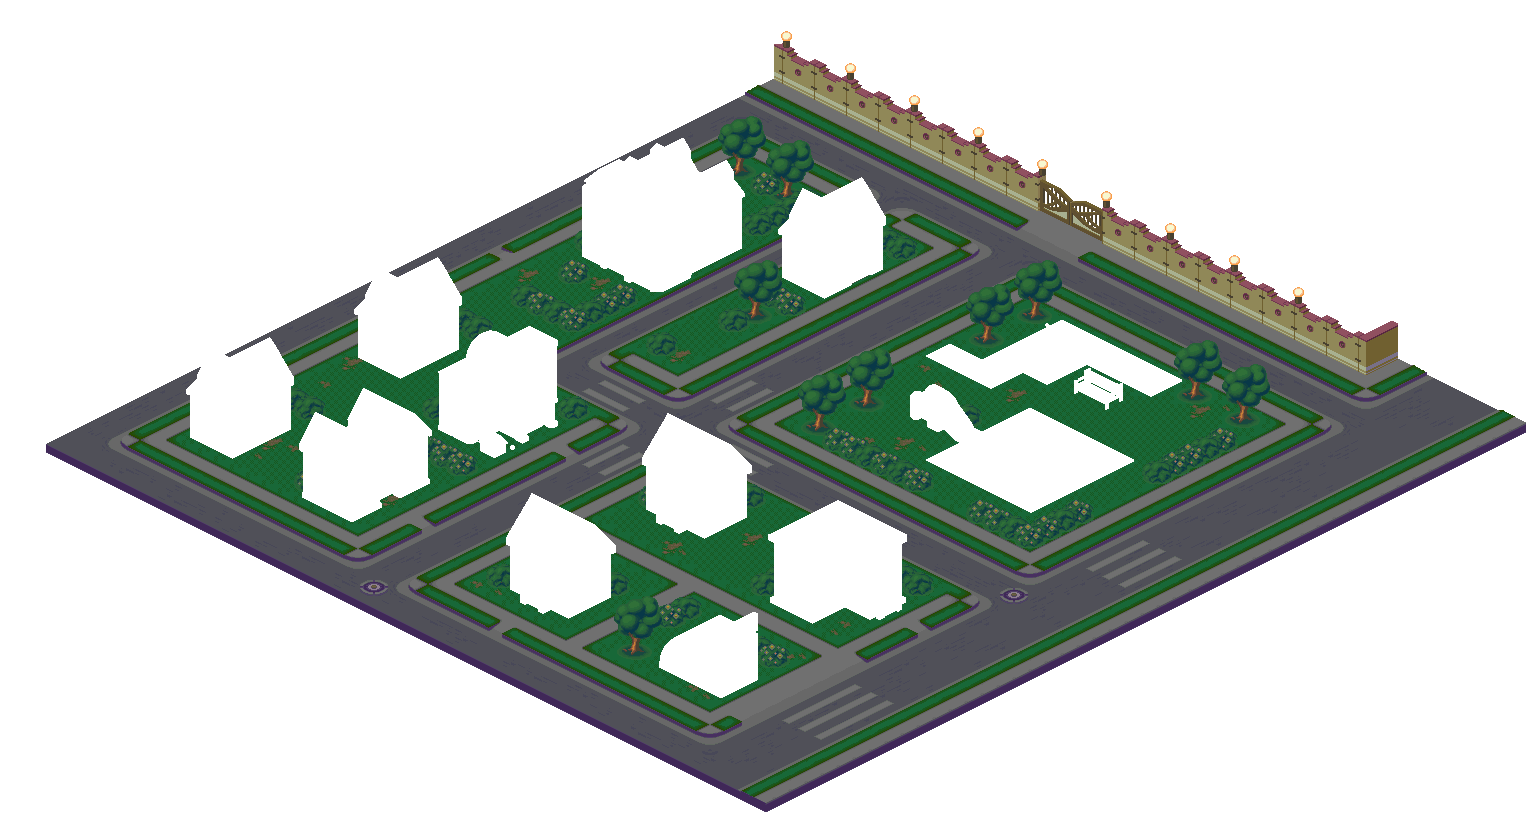
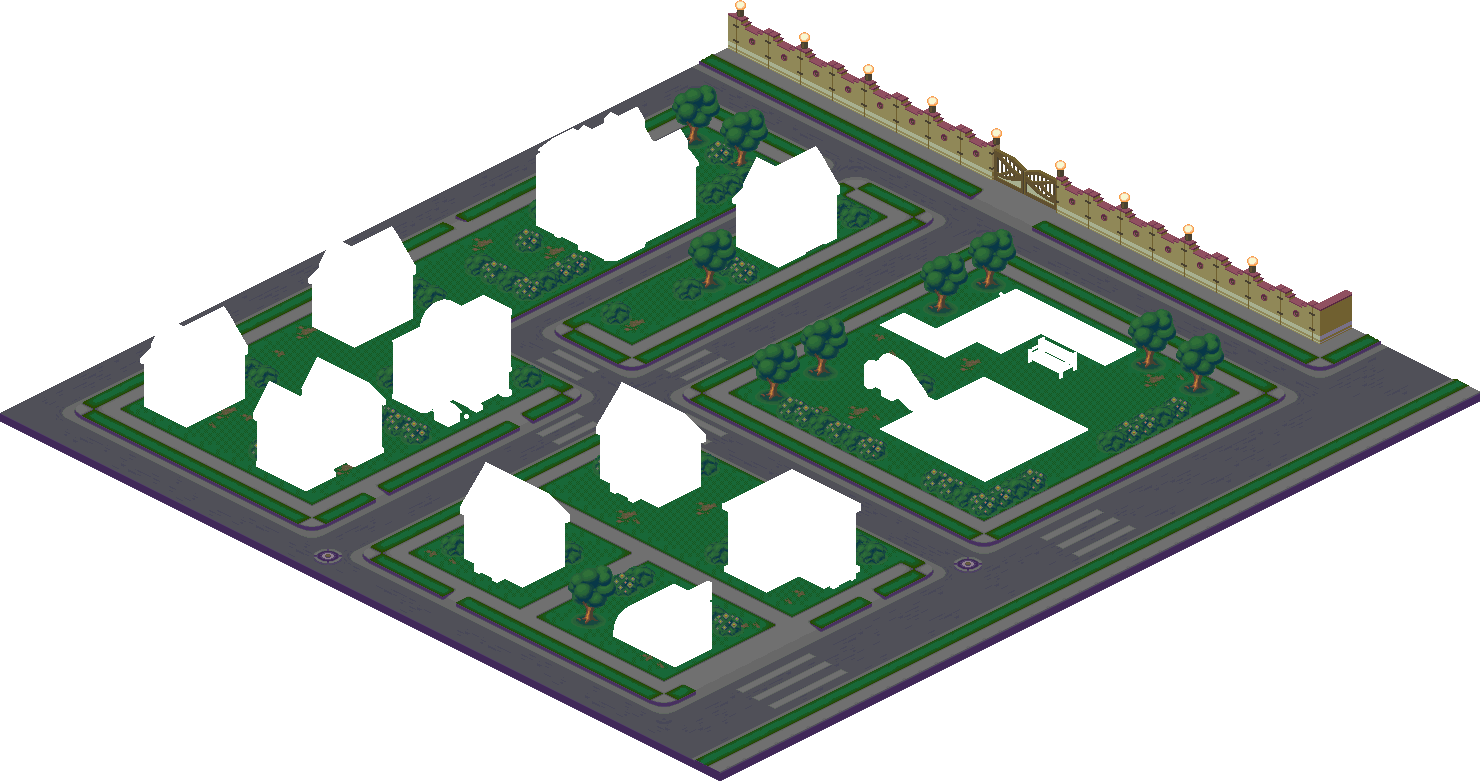
changes, - ripped and added in dex chair, - Gave chair colissions slight fixes to night map,   -May change night and day to be same map and setup a way to swap the assets easily in future,

Changed region(s): [[0.0, 0.0, 1.0, 1.0]]

diff --git a/assets/tiles/BN3ACDCTown-Night.tsx b/assets/tiles/BN3ACDCTown-Night.tsx
@@ -1,4 +1,4 @@
 <?xml version="1.0" encoding="UTF-8"?>
-<tileset version="1.8" tiledversion="1.8.6" name="BN3ACDCTown-Night" tilewidth="1535" tileheight="821" tilecount="1" columns="1" objectalignment="top">
- <image source="BN3ACDCTown-Night.png" width="1535" height="821"/>
+<tileset version="1.8" tiledversion="1.8.6" name="BN3ACDCTown-Night" tilewidth="1480" tileheight="781" tilecount="1" columns="1" objectalignment="top">
+ <image source="BN3ACDCTown-Night.png" width="1480" height="781"/>
 </tileset>

diff --git a/assets/tiles/BN3DexsChair.tsx b/assets/tiles/BN3DexsChair.tsx
@@ -1,0 +1,11 @@
+<?xml version="1.0" encoding="UTF-8"?>
+<tileset version="1.8" tiledversion="1.8.6" name="BN3DexsChair" tilewidth="21" tileheight="38" tilecount="1" columns="1" objectalignment="bottom">
+ <image source="BN3DexsChair.png" width="21" height="38"/>
+ <tile id="0">
+  <objectgroup draworder="index" id="2">
+   <object id="1" x="6" y="43">
+    <polygon points="-6,-2 2,-5.75 7,-3 13,-6 8,-9 14,-12 6,-16 -14,-6"/>
+   </object>
+  </objectgroup>
+ </tile>
+</tileset>
